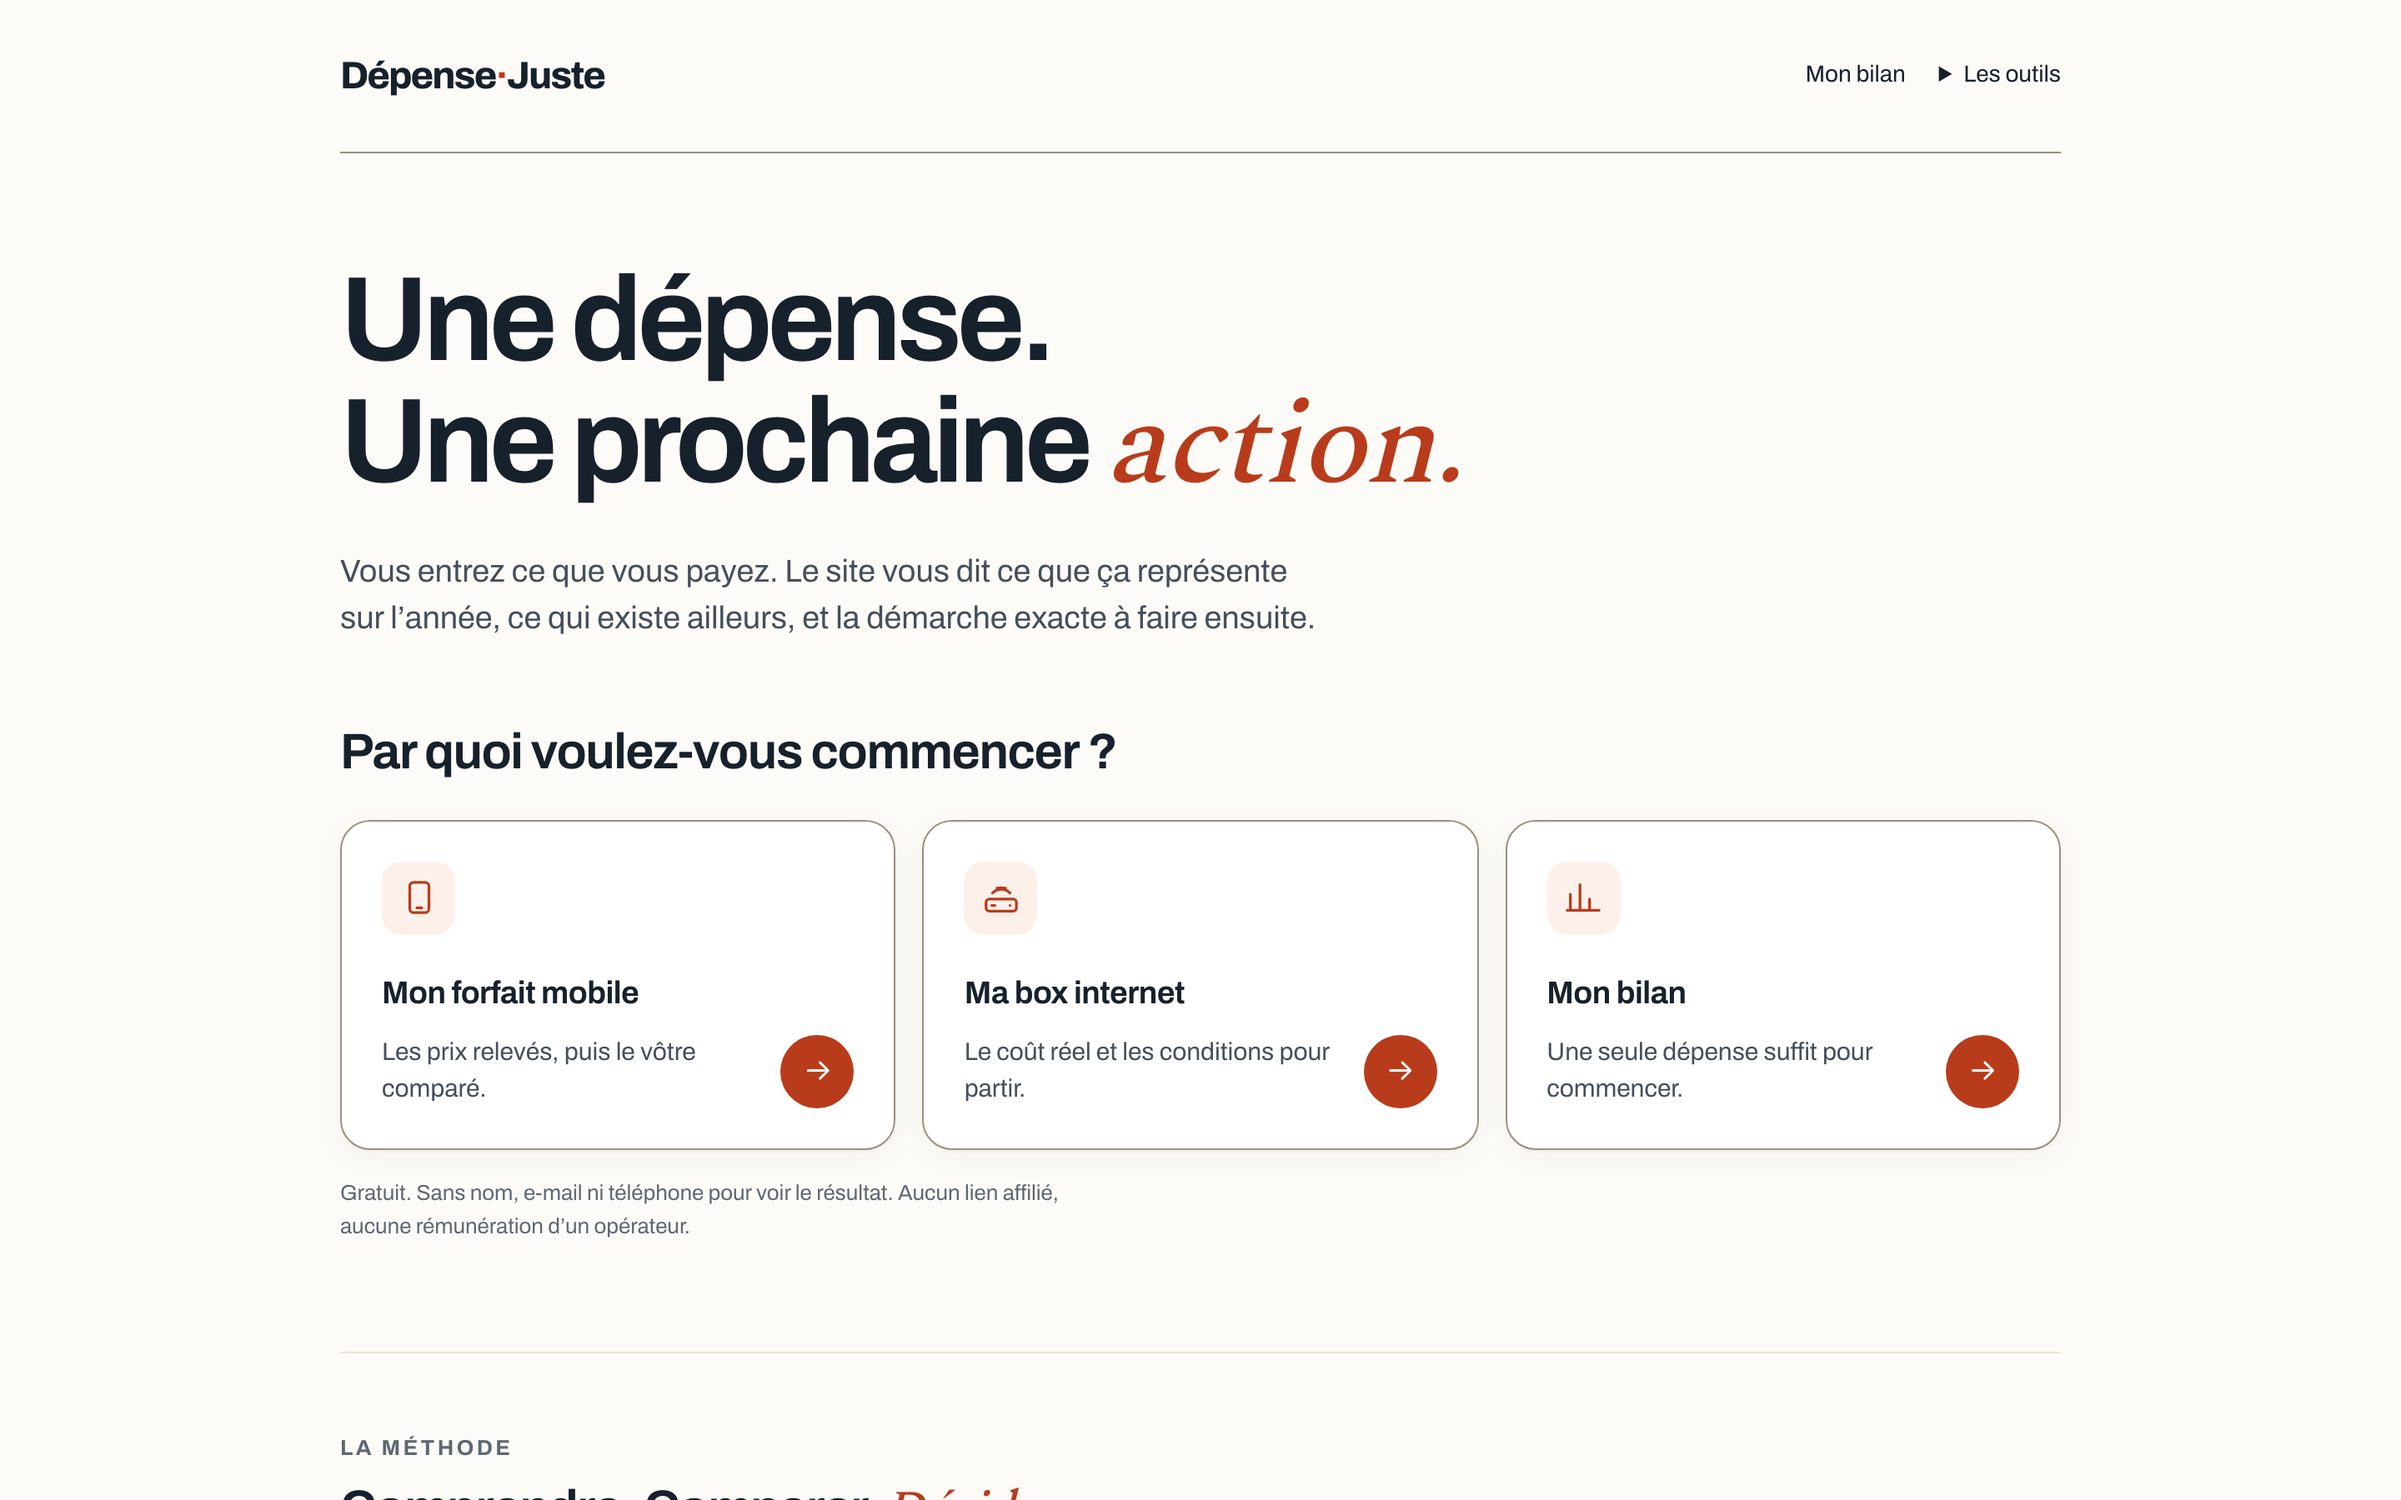
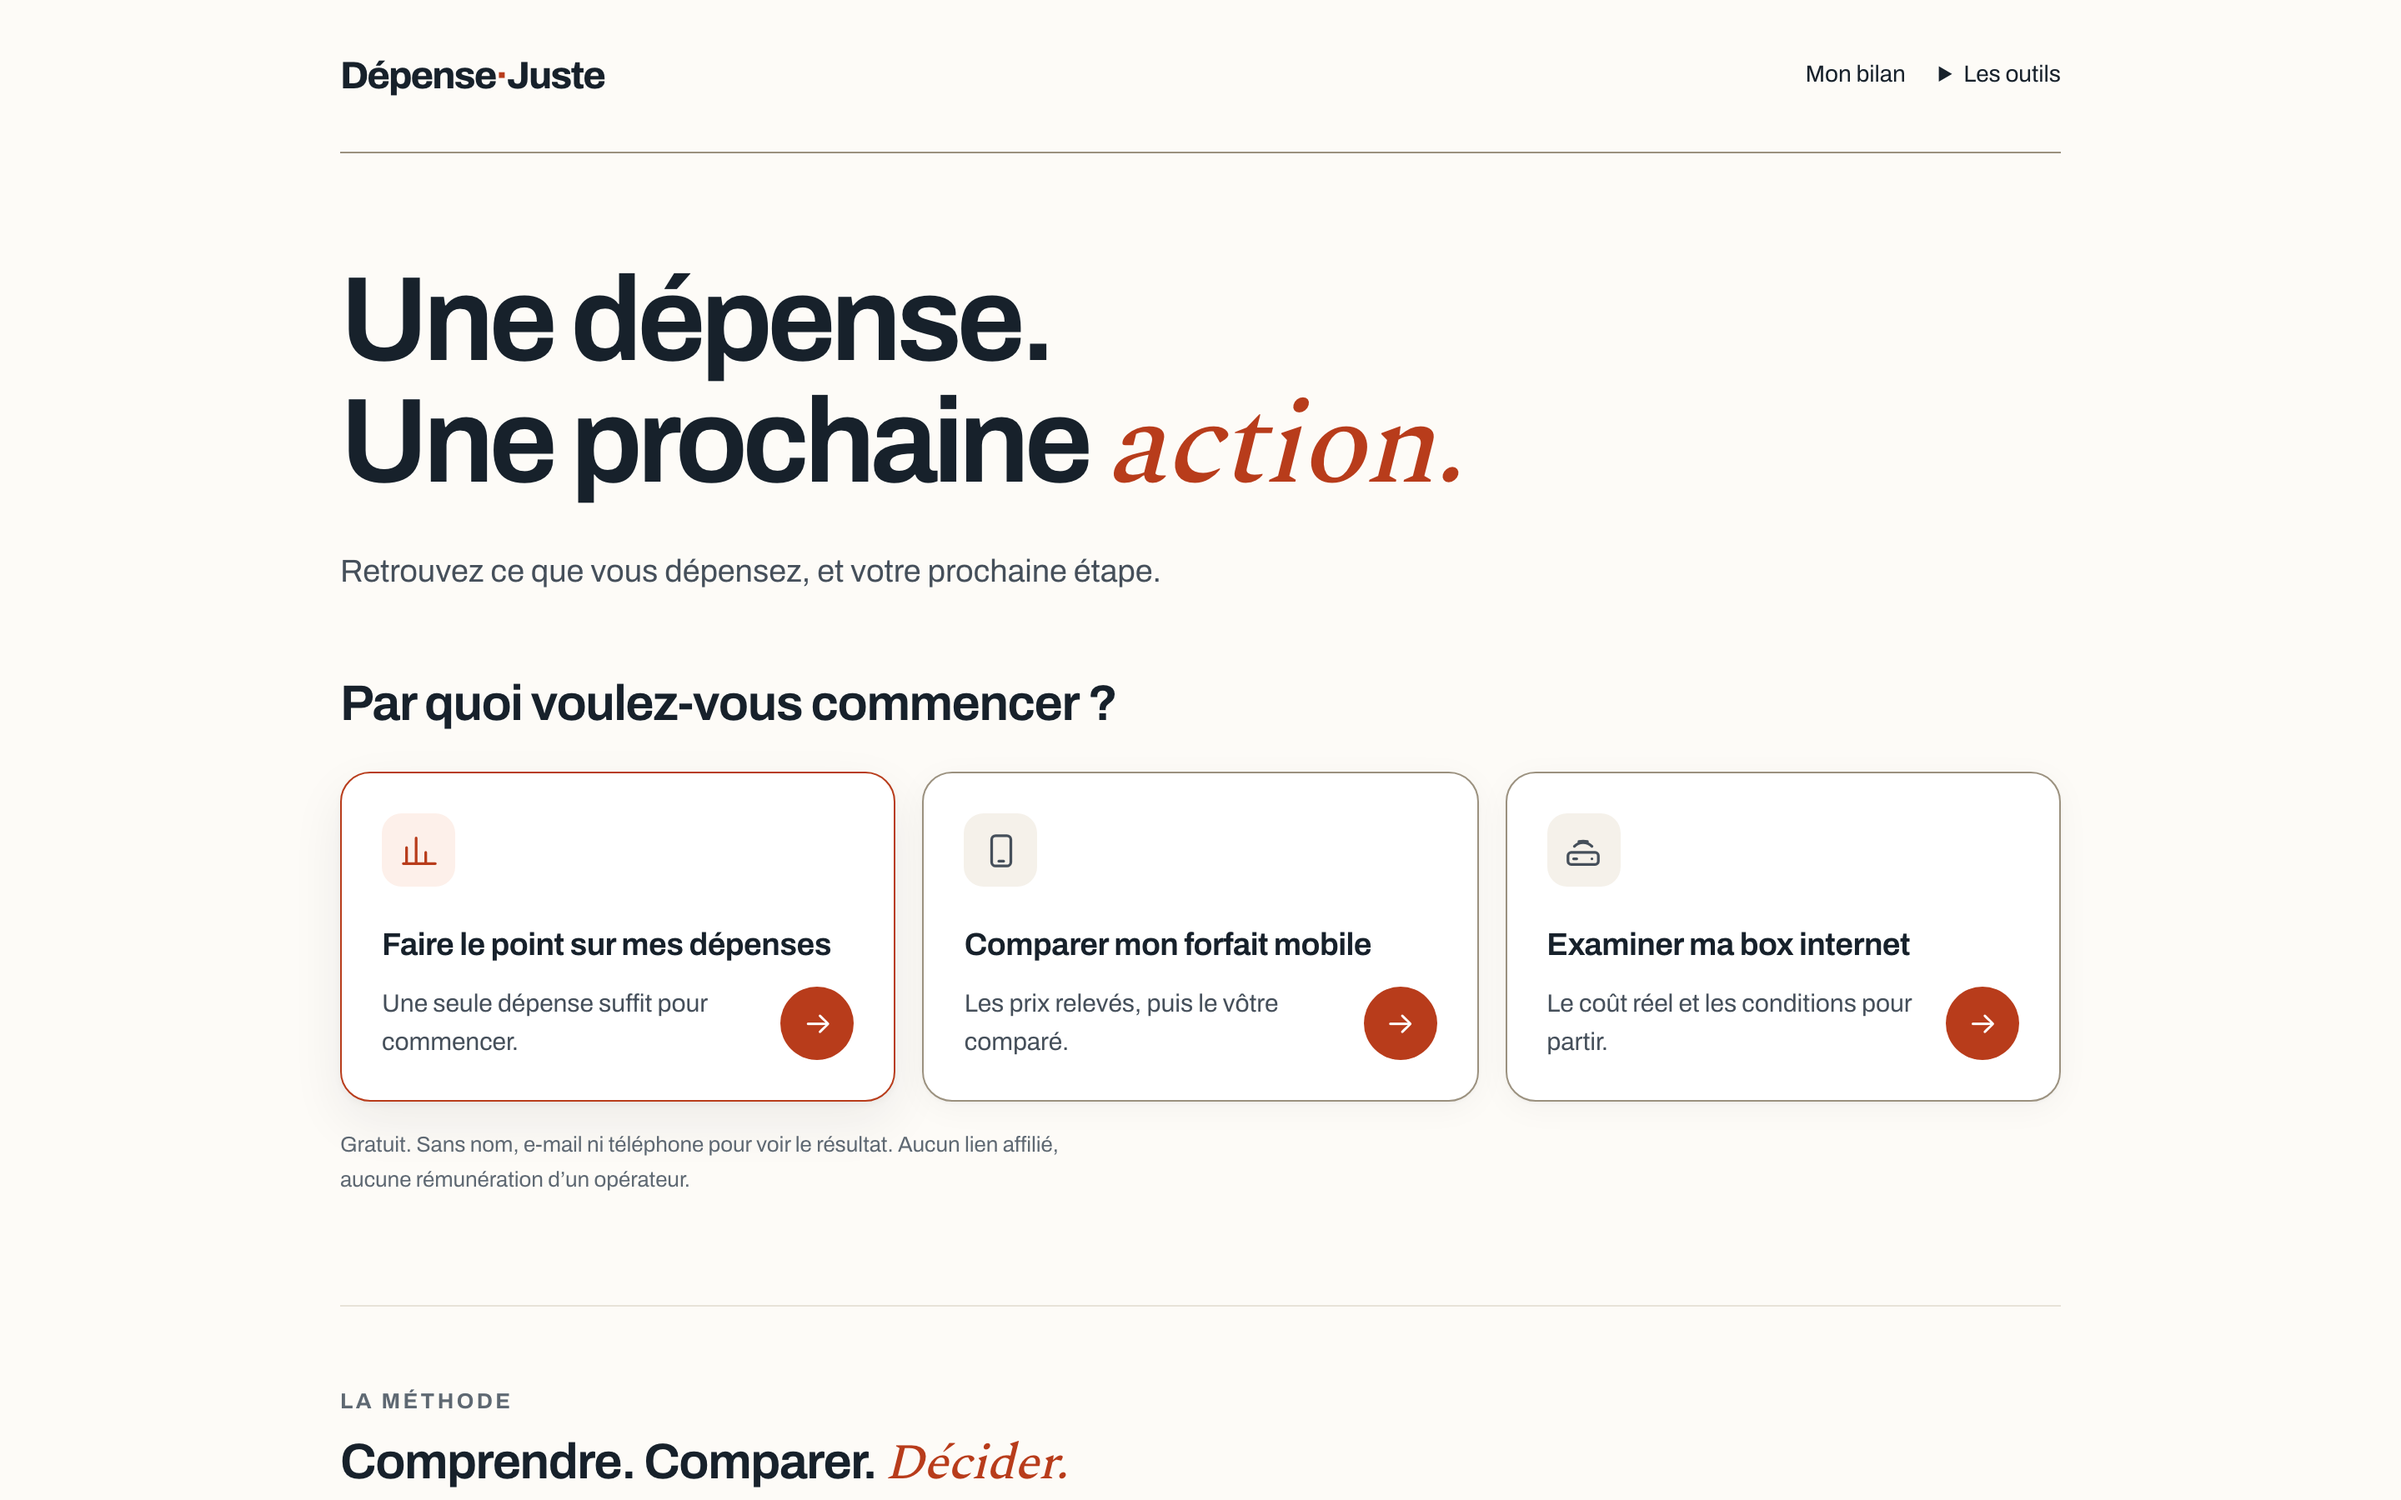
Quatre corrections : résumé allégé, promesse exacte, bilan en tête
RÉSUMÉ DU TABLEAU DE BORD. Mesuré avant : la première dépense commençait à
487 px sur 390 x 844 et à 508 px sur 375 x 667. Deux textes n'y apprenaient
rien — le surtitre répétait le sélecteur de mois posé vingt pixels plus haut,
et « Repris du mois précédent. Confirmez ou corrigez, un poste à la fois. »
répétait ce que chaque ligne dit d'elle-même et ce que le bouton annonce. Les
deux disparaissent au téléphone et restent sur grand écran. Les montants
passent en lignes compactes, les espacements se resserrent. Après : 376 et
397 px, soit 111 px gagnés de part et d'autre.

Le repère de 200 px n'est pas atteint, et ne peut pas l'être sans retirer une
information demandée : en-tête 48, mention des montants fictifs 45, module 283
dont 52 pour le bouton et 70 pour les deux montants. Rien de tout cela n'est
superflu. Le nombre à confirmer, la barre, le compte écrit, la distinction
confirmé/prévisionnel, l'action et la mention restent tous visibles.
Vérifié aussi à 200 % de taille de texte : aucun débordement, aucun texte
coupé, les six éléments toujours là, à 320, 375 et 390 px.

PROMESSE DE L'ACCUEIL. « Le site vous dit ce que ça représente sur l'année, ce
qui existe ailleurs, et la démarche exacte à faire ensuite » promettait pour
huit postes ce que deux permettent. Le suivi des changements d'un mois sur
l'autre n'existe que dans `tableau-demo.html`, qui n'est lié depuis aucune
page : il ne pouvait donc pas entrer dans la phrase non plus. Reste ce qui est
[…]

diff --git a/web/tableau-demo.css b/web/tableau-demo.css
@@ -15,6 +15,35 @@ button,input,select{font:inherit}button,a,summary{touch-action:manipulation}butt
 .module-attention h2{font-size:var(--t-h2);margin-top:var(--s1)}
 .module-dit{margin:var(--s2) 0 0;font-size:var(--t-small);line-height:1.5;color:var(--ink-muted)}
 .module-attention .review-action{margin-top:var(--s4)}
+
+/* ---------- Au téléphone, le résumé s'allège ----------
+   Mesuré avant : la première dépense commençait à 487 px sur 390 x 844, et à
+   508 px sur 375 x 667. Deux textes n'y apprenaient rien de neuf.
+
+   Le surtitre répétait le sélecteur de mois, à vingt pixels de là. La phrase
+   « Repris du mois précédent. Confirmez ou corrigez, un poste à la fois. »
+   répétait ce que chaque ligne dit déjà d'elle-même et ce que le bouton
+   annonce. Les deux disparaissent au téléphone et restent sur grand écran, où
+   la place ne coûte rien.
+
+   Rien d'obligatoire n'est masqué : le nombre à confirmer, la barre, le compte
+   écrit, la distinction confirmé/prévisionnel, l'action et la mention des
+   montants fictifs restent tous visibles. */
+@media(max-width:700px){
+  .module{padding:var(--s4);margin-top:var(--s2)}
+  #attention-periode,.module-dit{display:none}
+  .module-attention h2{margin-top:0}
+  .module-attention .review-action{margin-top:var(--s3)}
+  progress{margin-top:var(--s3)}
+  .progress-label{margin-top:var(--s1);font-size:var(--t-label)}
+  /* Les deux montants passent en lignes compactes : l'étiquette porte déjà
+     « partiel » et « prévisionnel », le chiffre n'a plus besoin de deux rangs
+     de hauteur pour se distinguer de son voisin. */
+  .module-chiffres{margin-top:var(--s3);padding-top:var(--s3);gap:0 var(--s3)}
+  .module-chiffres strong{font-size:19px;letter-spacing:-.02em}
+  .module-chiffres span{font-size:12px;line-height:1.3}
+  .module-note{margin-top:var(--s1)}
+}
 /* Pleine largeur au doigt, où la cible compte. Sur grand écran, un bouton de
    mille pixels n'est pas plus visible, seulement plus insistant. */
 .review-action .primary{width:100%}
@@ -49,6 +78,9 @@ progress::-moz-progress-bar{background:var(--accent)}
 .annual-details{margin-top:12px;font-size:.85rem;color:var(--ink-muted)}summary{display:flex;align-items:center;cursor:pointer}summary:before{content:'＋';margin-right:8px}.month-invite{margin-top:6px}.view-nav{display:flex;flex-wrap:wrap;gap:4px;border-block:1px solid var(--line);margin-top:20px;padding:8px 0}.view-nav button{flex:1;background:none;color:var(--ink-muted);border-radius:8px;padding:8px;font-size:.8rem}.view-nav [aria-current]{background:var(--signature-soft);color:var(--signature);font-weight:650}footer{font-size:.8rem;color:var(--ink-muted);padding:12px 0 24px}.footer-actions{display:flex;justify-content:space-between;flex-wrap:wrap;gap:8px}.theme-choix{display:flex;gap:6px}.theme-choix button{background:var(--surface);color:var(--ink);border-radius:6px;padding:8px;font-size:.8rem}.theme-choix [aria-pressed=true]{border:1px solid var(--line-strong)}
 .section-head{margin:20px 0 12px}.cards{display:grid;gap:16px;margin-top:16px}.card{padding:20px;border:1px solid var(--line);background:var(--surface);border-radius:12px}.card h3{font-family:Spectral;font-size:1.5rem;margin-top:8px}.card p{font-size:.9rem;color:var(--ink-muted)}.actions{display:flex;gap:12px;flex-wrap:wrap;margin-top:16px}.chip{font-size:.75rem;color:var(--ink-muted)}.small,.muted{font-size:.85rem;color:var(--ink-muted)}
 dialog{background:var(--surface);color:var(--ink);border:1px solid var(--line);border-radius:16px;padding:24px;max-width:440px;width:calc(100% - 28px);max-height:90vh;overflow:auto}dialog::backdrop{background:#17212b80}.dialog-head{display:flex;align-items:center;justify-content:space-between}.eyebrow{font-size:.7rem}dialog h2{font-size:1.6rem}form label{display:block;font-size:.85rem;font-weight:600;margin:12px 0 5px}form input,form select{width:100%;min-width:0;border:1px solid var(--line-strong);border-radius:7px;padding:10px;background:var(--bg);color:var(--ink)}form .primary{width:100%;margin-top:12px}#error{color:var(--alert)}.preview{font-size:.85rem;margin-top:10px}dialog p,dialog li{font-size:.9rem}#guide-done{width:100%;margin-top:18px}#guide a{display:inline-flex;align-items:center}
-@media(max-width:400px){.module{padding:var(--s4)}.module-attention h2{font-size:21px}.demo-note{font-size:var(--t-label)}}
+/* Sous 400 px, la mention des montants fictifs passait sur deux lignes. À
+   13 px elle tient sur une seule, et reste au-dessus de la taille qu'elle
+   avait avant d'être remontée au-dessus des montants. */
+@media(max-width:400px){.module-attention h2{font-size:21px}.demo-note{font-size:var(--t-label)}}
 @media(max-width:700px){.app{padding:0 16px}.compact-head{min-height:48px}.brand{font-size:1.05rem}.quick-summary{padding:8px 0}.summary-values span{font-size:.75rem}.summary-values strong{font-size:1.5rem}.summary-values>div:last-child strong{font-size:1.1rem}.expense{grid-template-columns:24px minmax(0,1fr) auto 44px;gap:6px}.expense-symbol{width:24px}.expense h3{font-size:.85rem}.value{font-size:.85rem}.expense p{font-size:.7rem}.fast-actions{grid-column:1/-1}.summary-values{gap:8px}}
 @media(max-width:350px){.expense{grid-template-columns:minmax(0,1fr) auto 44px}.expense-symbol{display:none}}

diff --git a/web/index.html b/web/index.html
@@ -39,18 +39,25 @@
 
   <section class="promesse">
     <h1 class="display">Une dépense.<br>Une prochaine <em>action.</em></h1>
-    <p class="lede">Vous entrez ce que vous payez. Le site vous dit ce que ça représente
-    sur l’année, ce qui existe ailleurs, et la démarche exacte à faire ensuite.</p>
+    <p class="lede">Retrouvez ce que vous dépensez, et votre prochaine étape.</p>
   </section>
 
   <section class="entrees" aria-labelledby="commencer">
     <h2 id="commencer">Par quoi voulez-vous commencer&nbsp;?</h2>
     <div class="entrees-grille">
+      <a class="entree entree-tete carte carte-action" href="bilan.html">
+        <span class="entree-signe" aria-hidden="true">
+          <svg viewBox="0 0 24 24" fill="none" stroke="currentColor" stroke-width="1.7" stroke-linecap="round" stroke-linejoin="round"><path d="M4 20V10M10 20V4M16 20v-7M22 20H2"/></svg>
+        </span>
+        <span class="entree-titre">Faire le point sur mes dépenses</span>
+        <span class="entree-dit">Une seule dépense suffit pour commencer.</span>
+        <span class="entree-fleche" aria-hidden="true">→</span>
+      </a>
       <a class="entree carte carte-action" href="comparer-mobile.html">
         <span class="entree-signe" aria-hidden="true">
           <svg viewBox="0 0 24 24" fill="none" stroke="currentColor" stroke-width="1.7" stroke-linecap="round" stroke-linejoin="round"><rect x="6" y="2.5" width="12" height="19" rx="2.5"/><path d="M10.5 18.5h3"/></svg>
         </span>
-        <span class="entree-titre">Mon forfait mobile</span>
+        <span class="entree-titre">Comparer mon forfait mobile</span>
         <span class="entree-dit">Les prix relevés, puis le vôtre comparé.</span>
         <span class="entree-fleche" aria-hidden="true">→</span>
       </a>
@@ -58,16 +65,8 @@
         <span class="entree-signe" aria-hidden="true">
           <svg viewBox="0 0 24 24" fill="none" stroke="currentColor" stroke-width="1.7" stroke-linecap="round" stroke-linejoin="round"><rect x="2.5" y="13" width="19" height="7.5" rx="2"/><path d="M6 17h2M17.5 17h0"/><path d="M6.5 9.2a7.5 7.5 0 0 1 11 0M9.3 6.2a11.5 11.5 0 0 1 5.4 0"/></svg>
         </span>
-        <span class="entree-titre">Ma box internet</span>
+        <span class="entree-titre">Examiner ma box internet</span>
         <span class="entree-dit">Le coût réel et les conditions pour partir.</span>
-        <span class="entree-fleche" aria-hidden="true">→</span>
-      </a>
-      <a class="entree carte carte-action" href="bilan.html">
-        <span class="entree-signe" aria-hidden="true">
-          <svg viewBox="0 0 24 24" fill="none" stroke="currentColor" stroke-width="1.7" stroke-linecap="round" stroke-linejoin="round"><path d="M4 20V10M10 20V4M16 20v-7M22 20H2"/></svg>
-        </span>
-        <span class="entree-titre">Mon bilan</span>
-        <span class="entree-dit">Une seule dépense suffit pour commencer.</span>
         <span class="entree-fleche" aria-hidden="true">→</span>
       </a>
     </div>

diff --git a/web/accueil.css b/web/accueil.css
@@ -45,9 +45,19 @@
 }
 .entree-signe{
   grid-column:1; width:44px; height:44px; border-radius:var(--r);
-  background:var(--accent-soft); color:var(--accent);
+  background:var(--surface-2); color:var(--ink-muted);
   display:grid; place-items:center; margin-bottom:var(--s3);
 }
+/* Emphase mesurée sur le bilan — une bordure d'accent et un signe coloré, à
+   taille et à structure identiques. La direction du produit est le suivi des
+   dépenses du foyer, et le bilan en est la porte ; les deux comparateurs
+   restent atteignables directement, sans passer par lui.
+
+   C'est une hypothèse de hiérarchie, pas une préférence constatée : aucune
+   observation ne dit aujourd'hui par où les gens veulent commencer. Elle se
+   teste, et elle se défait si les séances disent autre chose. */
+.entree-tete{border-color:var(--accent); box-shadow:var(--shadow-lift);}
+.entree-tete .entree-signe{background:var(--accent-soft); color:var(--accent);}
 .entree-signe svg{width:23px; height:23px;}
 .entree-titre{grid-column:1/-1; font-size:var(--t-h3); font-weight:650; letter-spacing:-.015em; color:var(--ink);}
 .entree-dit{grid-column:1; font-size:var(--t-small); line-height:1.5; color:var(--ink-muted);}
